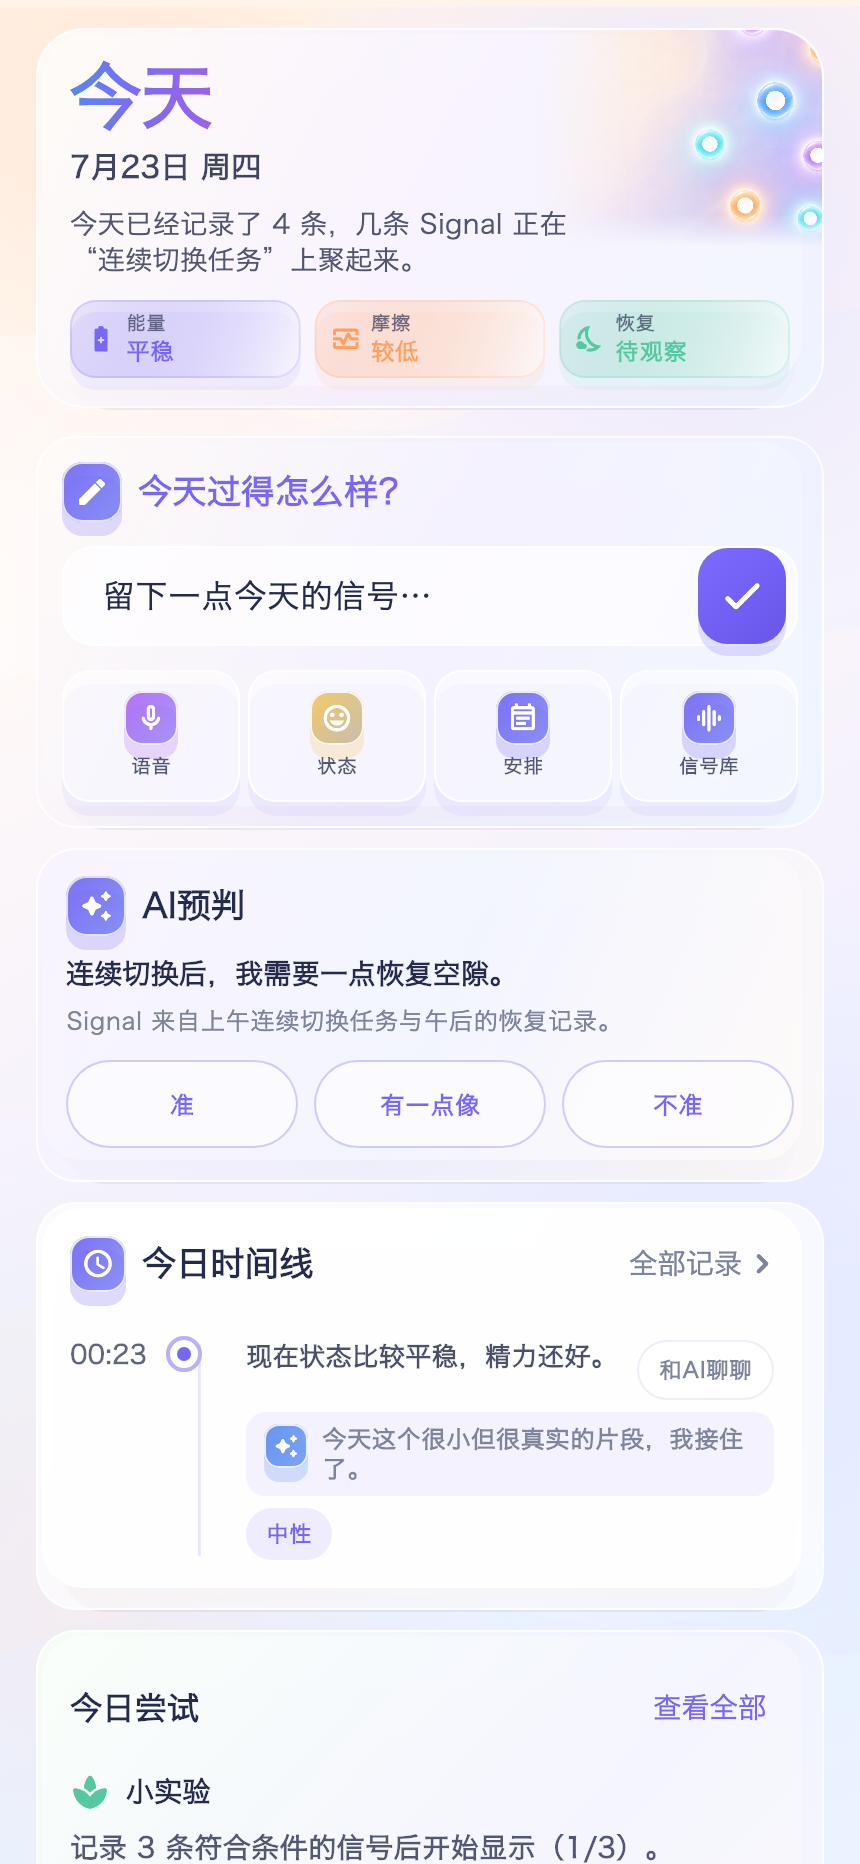
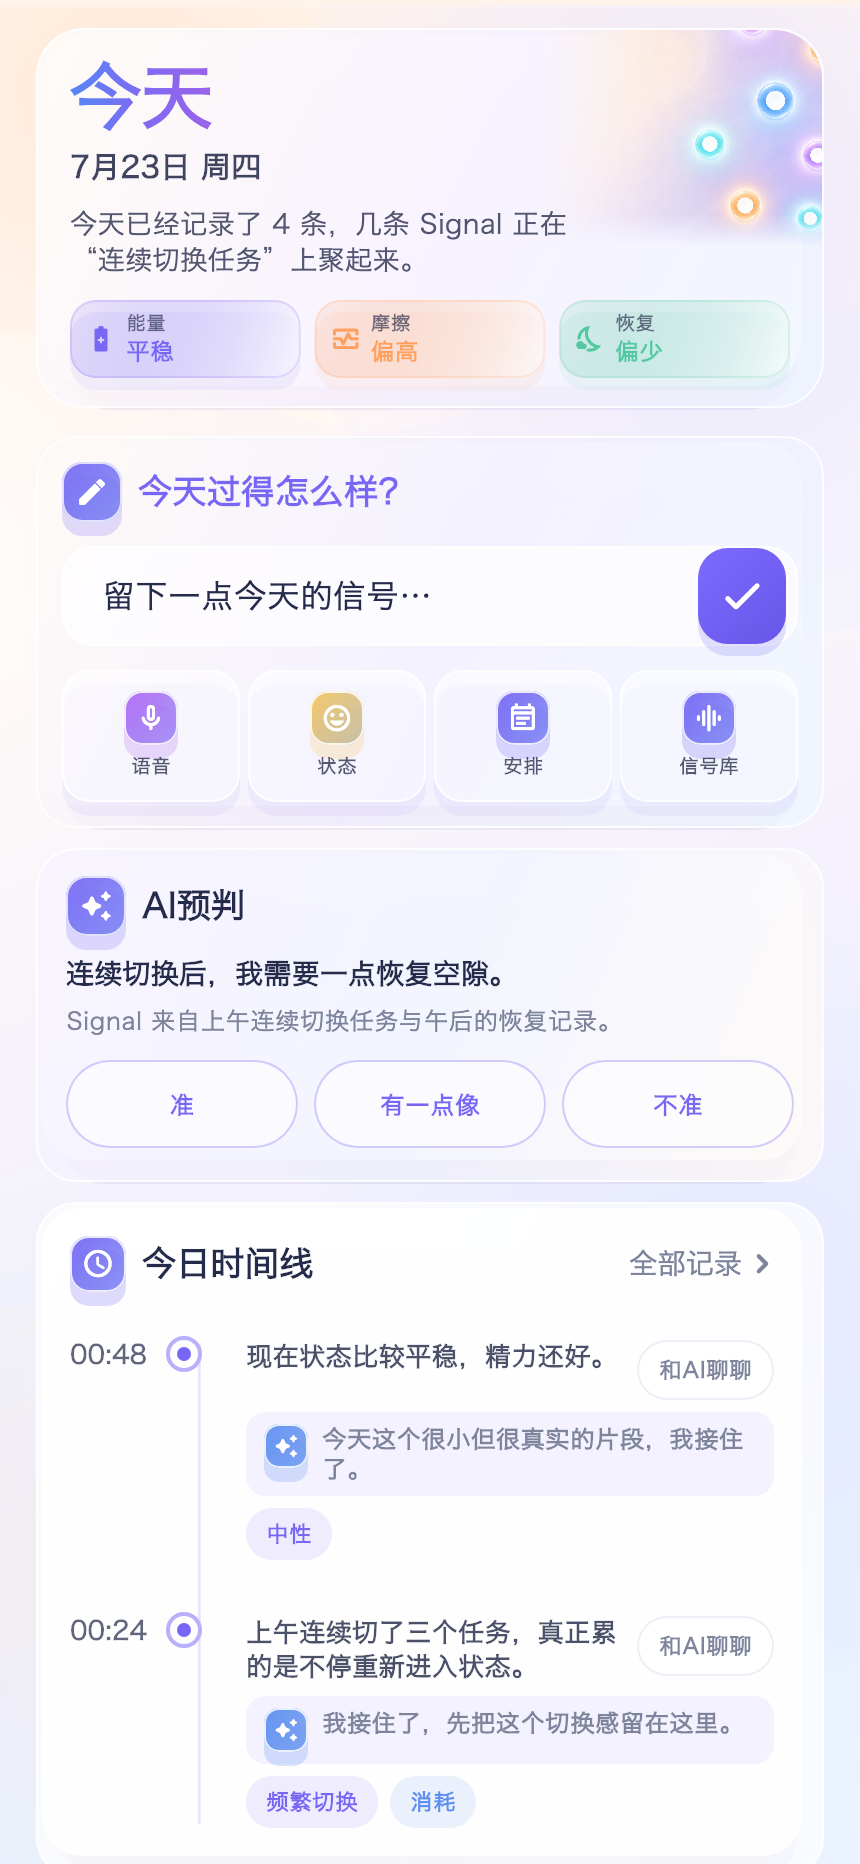
Make design QA fonts portable in clean CI

diff --git a/frontend_flutter/test/design_qa/render_weekly_secondary_pages_test.dart b/frontend_flutter/test/design_qa/render_weekly_secondary_pages_test.dart
@@ -4,7 +4,6 @@ import 'dart:ui' as ui;
 
 import 'package:flutter/material.dart';
 import 'package:flutter/rendering.dart';
-import 'package:flutter/services.dart';
 import 'package:flutter_localizations/flutter_localizations.dart';
 import 'package:flutter_test/flutter_test.dart';
 import 'package:provider/provider.dart';
@@ -23,6 +22,7 @@ import 'package:ai_opportunity_radar/core/models/weekly_models.dart';
 import 'package:ai_opportunity_radar/features/pages/candidates/candidate_hub_page.dart';
 import 'package:ai_opportunity_radar/features/pages/weekly/deep_weekly_page.dart';
 
+import '../helpers/design_qa_font_loader.dart';
 import '../helpers/widget_test_helpers.dart';
 
 void main() {
@@ -30,18 +30,7 @@ void main() {
 
   setUpAll(() async {
     sqfliteFfiInit();
-    final fontBytes =
-        await File('/System/Library/Fonts/Hiragino Sans GB.ttc').readAsBytes();
-    await (FontLoader(_designReviewFontFamily)
-          ..addFont(Future.value(ByteData.sublistView(fontBytes))))
-        .load();
-    final iconBytes = await File(
-      '/Users/yangyang/development/flutter/bin/cache/artifacts/material_fonts/'
-      'MaterialIcons-Regular.otf',
-    ).readAsBytes();
-    await (FontLoader('MaterialIcons')
-          ..addFont(Future.value(ByteData.sublistView(iconBytes))))
-        .load();
+    await loadDesignQaFonts(_designReviewFontFamily);
   });
 
   testWidgets('renders the current Weekly deep analysis for design review',

diff --git a/frontend_flutter/test/design_qa/render_today_secondary_pages_test.dart b/frontend_flutter/test/design_qa/render_today_secondary_pages_test.dart
@@ -3,7 +3,6 @@ import 'dart:ui' as ui;
 
 import 'package:flutter/material.dart';
 import 'package:flutter/rendering.dart';
-import 'package:flutter/services.dart';
 import 'package:flutter_localizations/flutter_localizations.dart';
 import 'package:flutter_test/flutter_test.dart';
 import 'package:provider/provider.dart';
@@ -17,24 +16,14 @@ import 'package:ai_opportunity_radar/features/pages/signal_library/signal_librar
 import 'package:ai_opportunity_radar/features/pages/today/today_diary_page.dart';
 import 'package:ai_opportunity_radar/features/pages/today/today_view_model.dart';
 
+import '../helpers/design_qa_font_loader.dart';
 import '../helpers/widget_test_helpers.dart';
 
 void main() {
   TestWidgetsFlutterBinding.ensureInitialized();
 
   setUpAll(() async {
-    final fontBytes =
-        await File('/System/Library/Fonts/Hiragino Sans GB.ttc').readAsBytes();
-    await (FontLoader(_designReviewFontFamily)
-          ..addFont(Future.value(ByteData.sublistView(fontBytes))))
-        .load();
-    final iconBytes = await File(
-      '/Users/yangyang/development/flutter/bin/cache/artifacts/material_fonts/'
-      'MaterialIcons-Regular.otf',
-    ).readAsBytes();
-    await (FontLoader('MaterialIcons')
-          ..addFont(Future.value(ByteData.sublistView(iconBytes))))
-        .load();
+    await loadDesignQaFonts(_designReviewFontFamily);
   });
 
   testWidgets('renders the current Today diary timeline for design review',

diff --git a/frontend_flutter/test/design_qa/render_current_main_pages_test.dart b/frontend_flutter/test/design_qa/render_current_main_pages_test.dart
@@ -3,7 +3,6 @@ import 'dart:ui' as ui;
 
 import 'package:flutter/material.dart';
 import 'package:flutter/rendering.dart';
-import 'package:flutter/services.dart';
 import 'package:flutter_localizations/flutter_localizations.dart';
 import 'package:flutter_test/flutter_test.dart';
 import 'package:path/path.dart' as p;
@@ -30,6 +29,7 @@ import 'package:ai_opportunity_radar/features/pages/today/today_view_model.dart'
 import 'package:ai_opportunity_radar/features/pages/weekly/weekly_page.dart';
 import 'package:ai_opportunity_radar/features/pages/weekly/weekly_view_model.dart';
 
+import '../helpers/design_qa_font_loader.dart';
 import '../helpers/widget_test_helpers.dart';
 
 void main() {
@@ -37,18 +37,7 @@ void main() {
 
   setUpAll(() async {
     sqfliteFfiInit();
-    final fontBytes =
-        await File('/System/Library/Fonts/Hiragino Sans GB.ttc').readAsBytes();
-    await (FontLoader(_designReviewFontFamily)
-          ..addFont(Future.value(ByteData.sublistView(fontBytes))))
-        .load();
-    final iconBytes = await File(
-      '/Users/yangyang/development/flutter/bin/cache/artifacts/material_fonts/'
-      'MaterialIcons-Regular.otf',
-    ).readAsBytes();
-    await (FontLoader('MaterialIcons')
-          ..addFont(Future.value(ByteData.sublistView(iconBytes))))
-        .load();
+    await loadDesignQaFonts(_designReviewFontFamily);
   });
 
   testWidgets('renders the current Today page for design review',

diff --git a/frontend_flutter/test/design_qa/render_experiment_secondary_pages_test.dart b/frontend_flutter/test/design_qa/render_experiment_secondary_pages_test.dart
@@ -3,7 +3,6 @@ import 'dart:ui' as ui;
 
 import 'package:flutter/material.dart';
 import 'package:flutter/rendering.dart';
-import 'package:flutter/services.dart';
 import 'package:flutter_localizations/flutter_localizations.dart';
 import 'package:flutter_test/flutter_test.dart';
 import 'package:path/path.dart' as p;
@@ -17,6 +16,7 @@ import 'package:ai_opportunity_radar/features/pages/experiment/experiment_page.d
 import 'package:ai_opportunity_radar/features/pages/today/today_experiment_feedback_page.dart';
 import 'package:ai_opportunity_radar/features/pages/weekly/weekly_view_model.dart';
 
+import '../helpers/design_qa_font_loader.dart';
 import '../helpers/widget_test_helpers.dart';
 
 void main() {
@@ -24,18 +24,7 @@ void main() {
 
   setUpAll(() async {
     sqfliteFfiInit();
-    final fontBytes =
-        await File('/System/Library/Fonts/Hiragino Sans GB.ttc').readAsBytes();
-    await (FontLoader(_fontFamily)
-          ..addFont(Future.value(ByteData.sublistView(fontBytes))))
-        .load();
-    final iconBytes = await File(
-      '/Users/yangyang/development/flutter/bin/cache/artifacts/'
-      'material_fonts/MaterialIcons-Regular.otf',
-    ).readAsBytes();
-    await (FontLoader('MaterialIcons')
-          ..addFont(Future.value(ByteData.sublistView(iconBytes))))
-        .load();
+    await loadDesignQaFonts(_fontFamily);
   });
 
   testWidgets('captures the Life Experiment feedback page at 390x844',

diff --git a/frontend_flutter/test/design_qa/render_journey_secondary_pages_test.dart b/frontend_flutter/test/design_qa/render_journey_secondary_pages_test.dart
@@ -3,7 +3,6 @@ import 'dart:ui' as ui;
 
 import 'package:flutter/material.dart';
 import 'package:flutter/rendering.dart';
-import 'package:flutter/services.dart';
 import 'package:flutter_localizations/flutter_localizations.dart';
 import 'package:flutter_test/flutter_test.dart';
 import 'package:path/path.dart' as p;
@@ -13,24 +12,14 @@ import 'package:ai_opportunity_radar/core/models/journey_pro_models.dart';
 import 'package:ai_opportunity_radar/features/pages/memory/journey_pro_page.dart';
 import 'package:ai_opportunity_radar/features/pages/memory/journey_pro_view_model.dart';
 
+import '../helpers/design_qa_font_loader.dart';
 import '../helpers/widget_test_helpers.dart';
 
 void main() {
   TestWidgetsFlutterBinding.ensureInitialized();
 
   setUpAll(() async {
-    final fontBytes =
-        await File('/System/Library/Fonts/Hiragino Sans GB.ttc').readAsBytes();
-    await (FontLoader(_designReviewFontFamily)
-          ..addFont(Future.value(ByteData.sublistView(fontBytes))))
-        .load();
-    final iconBytes = await File(
-      '/Users/yangyang/development/flutter/bin/cache/artifacts/material_fonts/'
-      'MaterialIcons-Regular.otf',
-    ).readAsBytes();
-    await (FontLoader('MaterialIcons')
-          ..addFont(Future.value(ByteData.sublistView(iconBytes))))
-        .load();
+    await loadDesignQaFonts(_designReviewFontFamily);
     Directory(_designQaDirectory).createSync(recursive: true);
   });
 

diff --git a/frontend_flutter/test/helpers/design_qa_font_loader.dart b/frontend_flutter/test/helpers/design_qa_font_loader.dart
@@ -1,0 +1,41 @@
+import 'dart:io';
+
+import 'package:flutter/services.dart';
+import 'package:path/path.dart' as p;
+
+Future<void> loadDesignQaFonts(String textFontFamily) async {
+  final textFont = File('/System/Library/Fonts/Hiragino Sans GB.ttc');
+  if (await textFont.exists()) {
+    final bytes = await textFont.readAsBytes();
+    await (FontLoader(textFontFamily)
+          ..addFont(Future.value(ByteData.sublistView(bytes))))
+        .load();
+  }
+
+  final flutterRoot = Platform.environment['FLUTTER_ROOT'];
+  final iconCandidates = <File>[
+    if (flutterRoot != null && flutterRoot.isNotEmpty)
+      File(
+        p.join(
+          flutterRoot,
+          'bin',
+          'cache',
+          'artifacts',
+          'material_fonts',
+          'MaterialIcons-Regular.otf',
+        ),
+      ),
+    File(
+      '/Users/yangyang/development/flutter/bin/cache/artifacts/'
+      'material_fonts/MaterialIcons-Regular.otf',
+    ),
+  ];
+  for (final iconFont in iconCandidates) {
+    if (!await iconFont.exists()) continue;
+    final bytes = await iconFont.readAsBytes();
+    await (FontLoader('MaterialIcons')
+          ..addFont(Future.value(ByteData.sublistView(bytes))))
+        .load();
+    break;
+  }
+}
